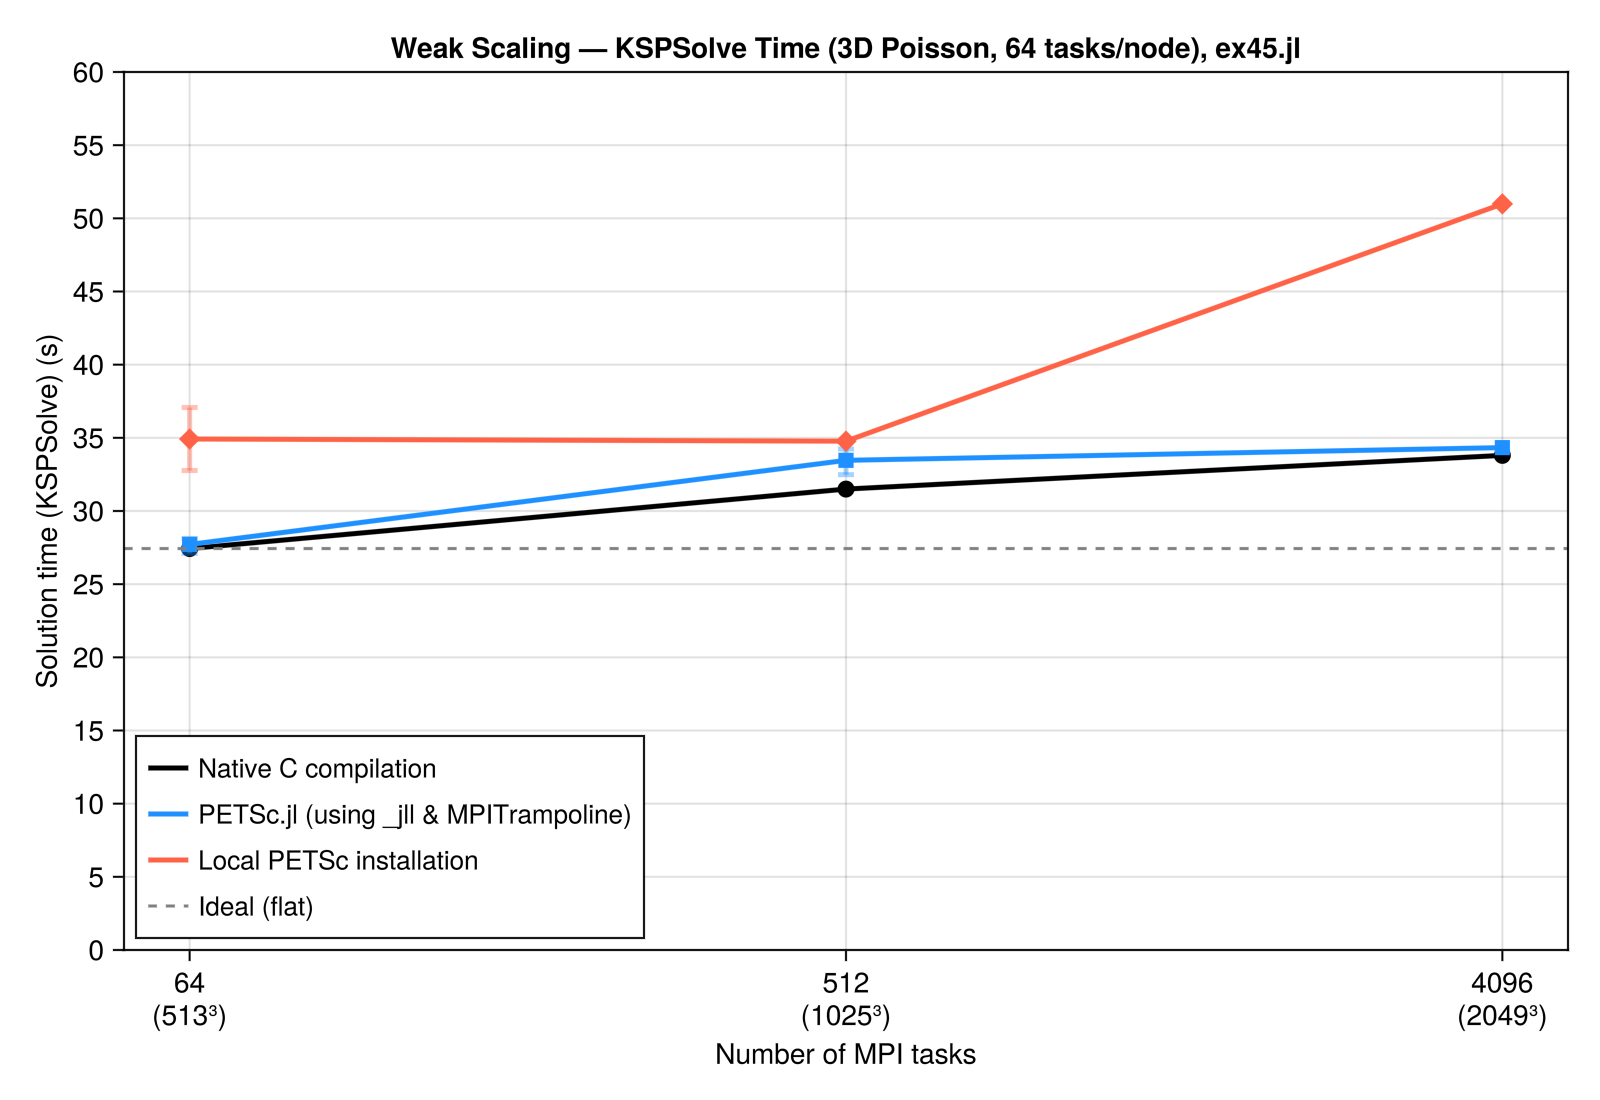
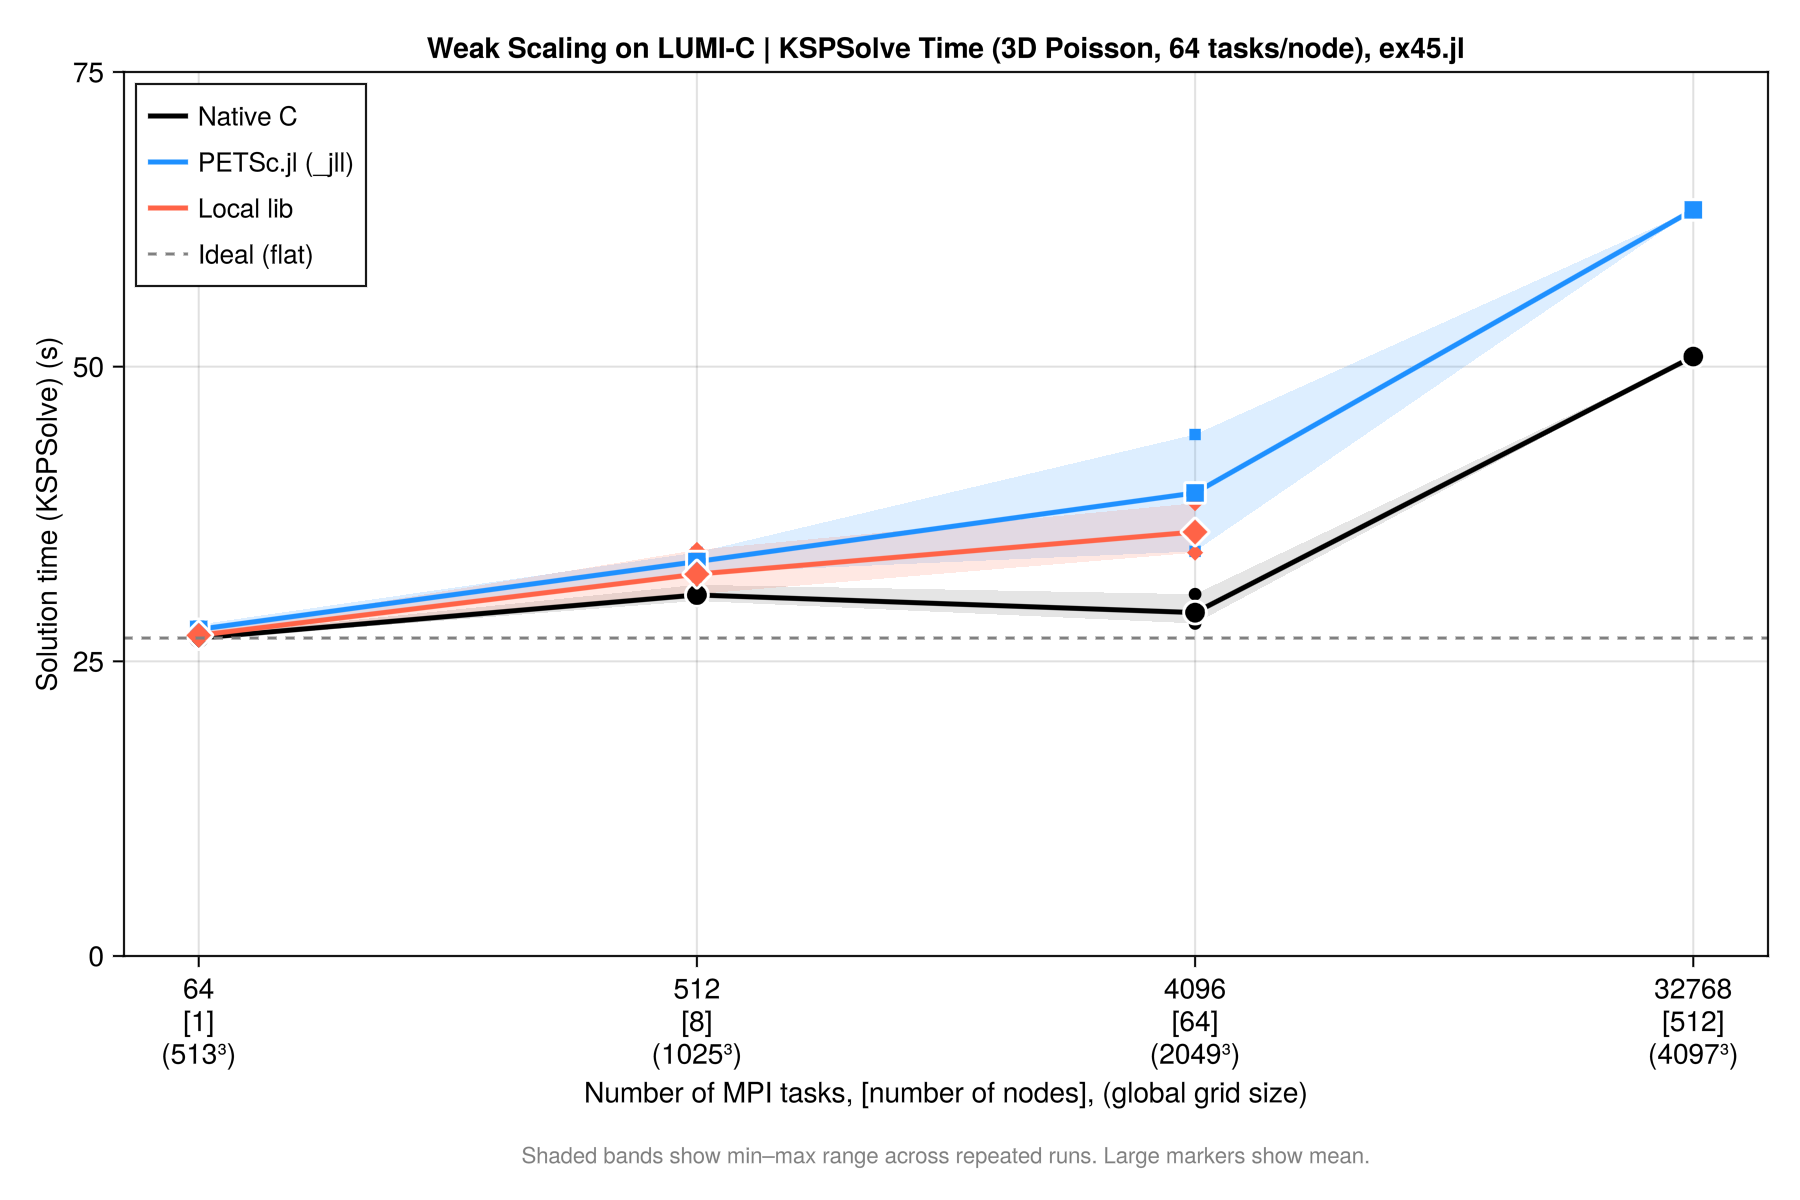
update scaling results

diff --git a/docs/src/man/hpc.md b/docs/src/man/hpc.md
@@ -201,25 +201,23 @@ We consider 3 cases:
 - Using a C-compiled version of `ex45_julia.c`  ("native")
 
 #### Results
-Here the collected results: 
+Here the collected results (all simulations, except the largest ones, where done 3 times; I only show the fastest ones here). 
 
-| JobID | Cores | MG levels | NC | Grid | Backend | SolveTime (s) | KSPSolve (s) | TotGFlops | GFlops/s | KSP | L2 error | Max error | Residual | Converged |
+| JobID | Ntasks | MG | NC | Grid | Backend | SolveTime (s) | KSPSolve (s) | TotGFlops | GFlops/s | KSP | L2 error | Max error | Residual | Converged |
 |-------|--------|----|----|------|---------|--------------|-------------|-----------|----------|-----|----------|-----------|----------|-----------|
-| 17655324 | 64 | 5 | 16 | 513³ | PETSc.jl | 55.843 | 27.916 | 335.60 | 5.13 | 9 | 4.4372e-06 | 1.2557e-05 | 3.5610e-05 | ✅ |
 | 17684772 | 64 | 5 | 16 | 513³ | PETSc.jl | 50.800 | 27.108 | 335.60 | 6.00 | 9 | 4.4372e-06 | 1.2557e-05 | 3.5610e-05 | ✅ |
-| 17724069 | 64 | 5 | 16 | 513³ | PETSc.jl | 56.352 | 28.121 | 335.60 | 4.99 | 9 | 4.4372e-06 | 1.2557e-05 | 3.5610e-05 | ✅ |
-| 17701600 | 64 | 5 | 16 | 513³ | local lib | 69.544 | 37.073 | 335.60 | 4.08 | 9 | 4.4372e-06 | 1.2557e-05 | 3.5610e-05 | ✅ |
-| 17705963 | 64 | 5 | 16 | 513³ | local lib | 70.112 | 32.767 | 335.60 | 4.07 | 9 | 4.4372e-06 | 1.2557e-05 | 3.5610e-05 | ✅ |
-| 17678227 | 64 | 5 | 16 | 513³ | native | 42.550 | 27.434 | 337.90 | 7.40 | 9 | 4.4372e-06 | 1.2557e-05 | 3.5610e-05 | ✅ |
-| 17657242 | 512 | 6 | 16 | 1025³ | PETSc.jl | 66.789 | 33.670 | 2878.00 | 34.89 | 10 | 1.1093e-06 | 3.1236e-06 | 9.6257e-05 | ✅ |
+| 17769825 | 64 | 5 | 16 | 513³ | local lib | 51.032 | 27.006 | 335.60 | 6.00 | 9 | 4.4372e-06 | 1.2557e-05 | 3.5610e-05 | ✅ |
+| 17767475 | 64 | 5 | 16 | 513³ | native | 38.770 | 26.917 | 337.90 | 8.50 | 9 | 4.4372e-06 | 1.2557e-05 | 3.5610e-05 | ✅ |
 | 17724458 | 512 | 6 | 16 | 1025³ | PETSc.jl | 61.715 | 32.482 | 2878.00 | 37.52 | 10 | 1.1093e-06 | 3.1236e-06 | 9.6257e-05 | ✅ |
-| 17725367 | 512 | 6 | 16 | 1025³ | PETSc.jl | 65.473 | 34.236 | 2878.00 | 35.53 | 10 | 1.1093e-06 | 3.1236e-06 | 9.6257e-05 | ✅ |
-| 17701691 | 512 | 6 | 16 | 1025³ | local lib | 70.233 | 34.772 | 2878.00 | 34.21 | 10 | 1.1093e-06 | 3.1236e-06 | 9.6257e-05 | ✅ |
-| 17678240 | 512 | 6 | 16 | 1025³ | native | 47.616 | 31.498 | 2896.00 | 57.49 | 10 | 1.1093e-06 | 3.1236e-06 | 9.6257e-05 | ✅ |
+| 17769827 | 512 | 6 | 16 | 1025³ | local lib | 58.254 | 32.033 | 2878.00 | 40.54 | 10 | 1.1093e-06 | 3.1236e-06 | 9.6257e-05 | ✅ |
+| 17767644 | 512 | 6 | 16 | 1025³ | native | 42.700 | 30.122 | 2896.00 | 65.64 | 10 | 1.1093e-06 | 3.1236e-06 | 9.6257e-05 | ✅ |
+| 17768041 | 512 | 6 | 16 | 1025³ | native | 42.924 | 30.307 | 2896.00 | 65.34 | 10 | 1.1093e-06 | 3.1236e-06 | 9.6257e-05 | ✅ |
 | 17658195 | 4096 | 7 | 16 | 2049³ | PETSc.jl | 72.949 | 34.332 | 21390.00 | 258.00 | 9 | 2.7738e-07 | 7.8741e-07 | 1.9254e-04 | ✅ |
-| 17701696 | 4096 | 7 | 16 | 2049³ | local lib | 94.214 | 50.987 | 21390.00 | 203.10 | 9 | 2.7738e-07 | 7.8741e-07 | 1.9254e-04 | ✅ |
-| 17678253 | 4096 | 7 | 16 | 2049³ | native | 60.047 | 33.801 | 21540.00 | 310.20 | 9 | 2.7738e-07 | 7.8741e-07 | 1.9254e-04 | ✅ |
-| 17703689 | 32768 | 8 | 16 | 4097³ | PETSc.jl | — | — | — | — | — | — | — | — | ❌ FAILED |
+| 17769830 | 4096 | 7 | 16 | 2049³ | local lib | 68.095 | 34.220 | 21390.00 | 270.00 | 9 | 2.7738e-07 | 7.8741e-07 | 1.9254e-04 | ✅ |
+| 17767610 | 4096 | 7 | 16 | 2049³ | native | 41.345 | 28.214 | 21540.00 | 506.10 | 9 | 2.7738e-07 | 7.8741e-07 | 1.9254e-04 | ✅ |
+| 17726872 | 32768 | 8 | 16 | 4097³ | PETSc.jl | 142.540 | 63.300 | 171000.00 | 746.60 | 9 | 6.9301e-08 | 1.9765e-07 | 6.6391e-04 | ✅ |
+| 17767541 | 32768 | 8 | 16 | 4097³ | native | 69.282 | 50.858 | 172200.00 | 2386.00 | 9 | 6.9301e-08 | 1.9765e-07 | 6.6391e-04 | ✅ |
+
 ---
 In this table `KSPSolve` indicates the time spend in the solver (taken from the log) and `SolveTime` the time for the full solution.
 
@@ -229,7 +227,7 @@ Below, we break this for each of the cases:
 
 the results of using PETSc.jl with precompiled `jll` libraries are:
 
-| Cores | Grid | DOFs/core | KSPSolve (s) | SolveTime (s) | Efficiency | Converged |
+| Ntasks | Grid | DOFs/core | KSPSolve (s) | SolveTime (s) | Efficiency | Converged |
 |--------|------|-----------|-------------|--------------|------------|-----------|
 | 64 | 513³ | 2,109,464 | 27.916 | 55.843 | 100.0% | ✅ |
 | 64 | 513³ | 2,109,464 | 27.108 | 50.800 | 103.0% | ✅ |
@@ -238,6 +236,8 @@ the results of using PETSc.jl with precompiled `jll` libraries are:
 | 512 | 1025³ | 2,103,302 | 32.482 | 61.715 | 85.9% | ✅ |
 | 512 | 1025³ | 2,103,302 | 34.236 | 65.473 | 81.5% | ✅ |
 | 4096 | 2049³ | 2,100,226 | 34.332 | 72.949 | 81.3% | ✅ |
+| 4096 | 2049³ | 2,100,226 | 44.244 | 79.557 | 63.1% | ✅ |
+| 32768 | 4097³ | 2,098,688 | 63.300 | 142.540 | 44.1% | ✅ |
 
 Please note that in the way we run this on LUMI-C, the 64 core case is on a single node and does not have inter-node communication. Despite this, weak scalability is pretty good (one could also argue to use the 512 core case as reference as this includes communication, in which case it would even be better).
 There is some variability in the timing when repeating the same run (a few %).
@@ -246,37 +246,50 @@ There is some variability in the timing when repeating the same run (a few %).
 
 | Ntasks | Grid | DOFs/core | KSPSolve (s) | SolveTime (s) | Efficiency | Converged |
 |--------|------|-----------|-------------|--------------|------------|-----------|
-| 64 | 513³ | 2,109,464 | 37.073 | 69.544 | 100.0% | ✅ |
-| 64 | 513³ | 2,109,464 | 32.767 | 70.112 | 113.1% | ✅ |
-| 512 | 1025³ | 2,103,302 | 34.772 | 70.233 | 106.6% | ✅ |
-| 4096 | 2049³ | 2,100,226 | 50.987 | 94.214 | 72.7% | ✅ |
-
+| 64 | 513³ | 2,109,464 | 27.065 | 51.123 | 100.0% | ✅ |
+| 64 | 513³ | 2,109,464 | 27.006 | 51.032 | 100.2% | ✅ |
+| 64 | 513³ | 2,109,464 | 27.551 | 56.452 | 98.2% | ✅ |
+| 512 | 1025³ | 2,103,302 | 34.456 | 61.041 | 78.5% | ✅ |
+| 512 | 1025³ | 2,103,302 | 32.033 | 58.254 | 84.5% | ✅ |
+| 512 | 1025³ | 2,103,302 | 30.708 | 61.971 | 88.1% | ✅ |
+| 4096 | 2049³ | 2,100,226 | 38.414 | 69.384 | 70.5% | ✅ |
+| 4096 | 2049³ | 2,100,226 | 35.292 | 68.905 | 76.7% | ✅ |
+| 4096 | 2049³ | 2,100,226 | 34.220 | 68.095 | 79.1% | ✅ |
 
 #### c) Native C build (`ex45_julia.c`)
 
 The equivalent PETSc C example compiled natively, serving as the baseline.
 
+
 | Ntasks | Grid | DOFs/core | KSPSolve (s) | SolveTime (s) | Efficiency | Converged |
 |--------|------|-----------|-------------|--------------|------------|-----------|
-| 64 | 513³ | 2,109,464 | 27.434 | 42.550 | 100.0% | ✅ |
-| 512 | 1025³ | 2,103,302 | 31.498 | 47.616 | 87.1% | ✅ |
-| 4096 | 2049³ | 2,100,226 | 33.801 | 60.047 | 81.2% | ✅ |
+| 64 | 513³ | 2,109,464 | 26.917 | 38.770 | 100.0% | ✅ |
+| 64 | 513³ | 2,109,464 | 27.155 | 39.011 | 99.1% | ✅ |
+| 64 | 513³ | 2,109,464 | 26.854 | 39.065 | 100.2% | ✅ |
+| 512 | 1025³ | 2,103,302 | 31.492 | 44.062 | 85.5% | ✅ |
+| 512 | 1025³ | 2,103,302 | 30.122 | 42.700 | 89.4% | ✅ |
+| 512 | 1025³ | 2,103,302 | 30.607 | 43.331 | 87.9% | ✅ |
+| 512 | 1025³ | 2,103,302 | 30.307 | 42.924 | 88.8% | ✅ |
+| 4096 | 2049³ | 2,100,226 | 30.694 | 46.659 | 87.7% | ✅ |
+| 4096 | 2049³ | 2,100,226 | 28.214 | 41.345 | 95.4% | ✅ |
+| 4096 | 2049³ | 2,100,226 | 28.498 | 42.759 | 94.5% | ✅ |
+| 32768 | 4097³ | 2,098,688 | 50.858 | 69.282 | 52.9% | ✅ |
+
 
 #### d) Backend Comparison 
 
 If we compare the case on 4096 cores with a 2049³ grid, for 3D Poisson, 64 nodes × 64 tasks/node, MG levels = 7, coarse ranks = 16 we get:
 
-| Metric | native C | PETSc.jl (`_jll`) | PETSc.jl (`_jll`) | local lib |
-|--------|----------|-------------------|-------------------|-----------|
-| **JobID** | 17678253 | 17658195 | 17724464 | 17701696 |
-| **SolveTime (s)** | 60.047 | 72.949 | 79.557 | 94.214 |
-| **KSPSolve (s)** | 33.801 | 34.332 | 44.244 | 50.987 |
-| **KSP iterations** | 9 | 9 | 9 | 9 |
-| **Total GFlops** | 21,540 | 21,390 | 21,390 | 21,390 |
-| **GFlops/s** | 310.2 | 258.0 | 208.5 | 203.1 |
-| **L2 error** | 2.7738e-07 | 2.7738e-07 | 2.7738e-07 | 2.7738e-07 |
-| **Max error** | 7.8741e-07 | 7.8741e-07 | 7.8741e-07 | 7.8741e-07 |
-| **Converged** | ✅ | ✅ | ✅ | ✅ |
+| Metric | native C | PETSc.jl (`_jll`) | local lib |
+|--------|----------|-------------------|-----------|
+| **Runs** | 3 | 2 | 3 |
+| **SolveTime mean (s)** | 43.6 | 76.3 | 68.8 |
+| **SolveTime range (s)** | 41.3–46.7 | 72.9–79.6 | 68.1–69.4 |
+| **KSPSolve mean (s)** | 29.1 | 39.3 | 35.9 |
+| **KSPSolve range (s)** | 28.2–30.7 | 34.3–44.2 | 34.2–38.4 |
+| **KSP iterations** | 9 | 9 | 9 |
+| **L2 error** | 2.7738e-07 | 2.7738e-07 | 2.7738e-07 |
+| **Converged** | ✅ | ✅ | ✅ |
 
 The relative performance is thus:
 
@@ -289,10 +302,15 @@ The relative performance is thus:
 
 From this we can conclude:
 - **Numerical results are identical** across all backends — same iterations, same L2/Max error.
-- **KSPSolve time** (pure solver kernel) is nearly identical between native and `PETSc.jl` best run (+1.6%), suggesting the Julia wrapper overhead is minimal in the solver itself.
-- **SolveTime overhead** for `PETSc.jl` vs native (+21–33%) comes mostly from setup (mesh construction, matrix assembly, MG hierarchy setup) rather than the solve.
-- **local lib** is slower than `_jll` despite using the same PETSc version. The likely cause for this is a different SuperLU_dist build, different BLAS (system libsci vs OpenBLAS in `_jll`), and going through GNU Cray MPI instead of MPItrampoline.
-- The variability between the two `PETSc.jl` runs (34s vs 44s KSPSolve) suggests some node-to-node performance variability on LUMI-C
+- **KSPSolve gap vs native** is ~6s for local lib and ~10s for `_jll` — much of this is MG setup overhead inside the solver
+- **SolveTime gap vs native** (~25s for local lib, ~32s for `_jll`) includes Julia setup: mesh construction, matrix assembly, MG hierarchy setup
+- **local lib** is faster than `_jll` at 4096 tasks (35.9s vs 39.3s mean KSPSolve) — likely because it uses the system Cray libsci BLAS directly without MPItrampoline overhead.
+- There is a (significant) drop in performance for high core counts. this is likely related to the multigrid setup and coarse grid solvers and not to PETSc.jl as we see a similar behavior for the native compilation as well.
+
+Overall it shows that there is overhead in using the Julia interface to `PETSc.jl` compared to native C-code. 
+On the other hand, this is done in a higher level language and can thus seemlessly integrate with the full Julia ecosystem. It should also be kept in mind that the residual routines etc. are all written in julia. 
+
+As a start one can configure `PETSc.jl` to use MPITrampoline, which doesn't require any PETSc installation and should thus work on any machine. For the last bit of performance one can configure a native PETSc installation and use that instead.
 
 #### Weak scalability plot
 Results can be summarized in the plot below:
